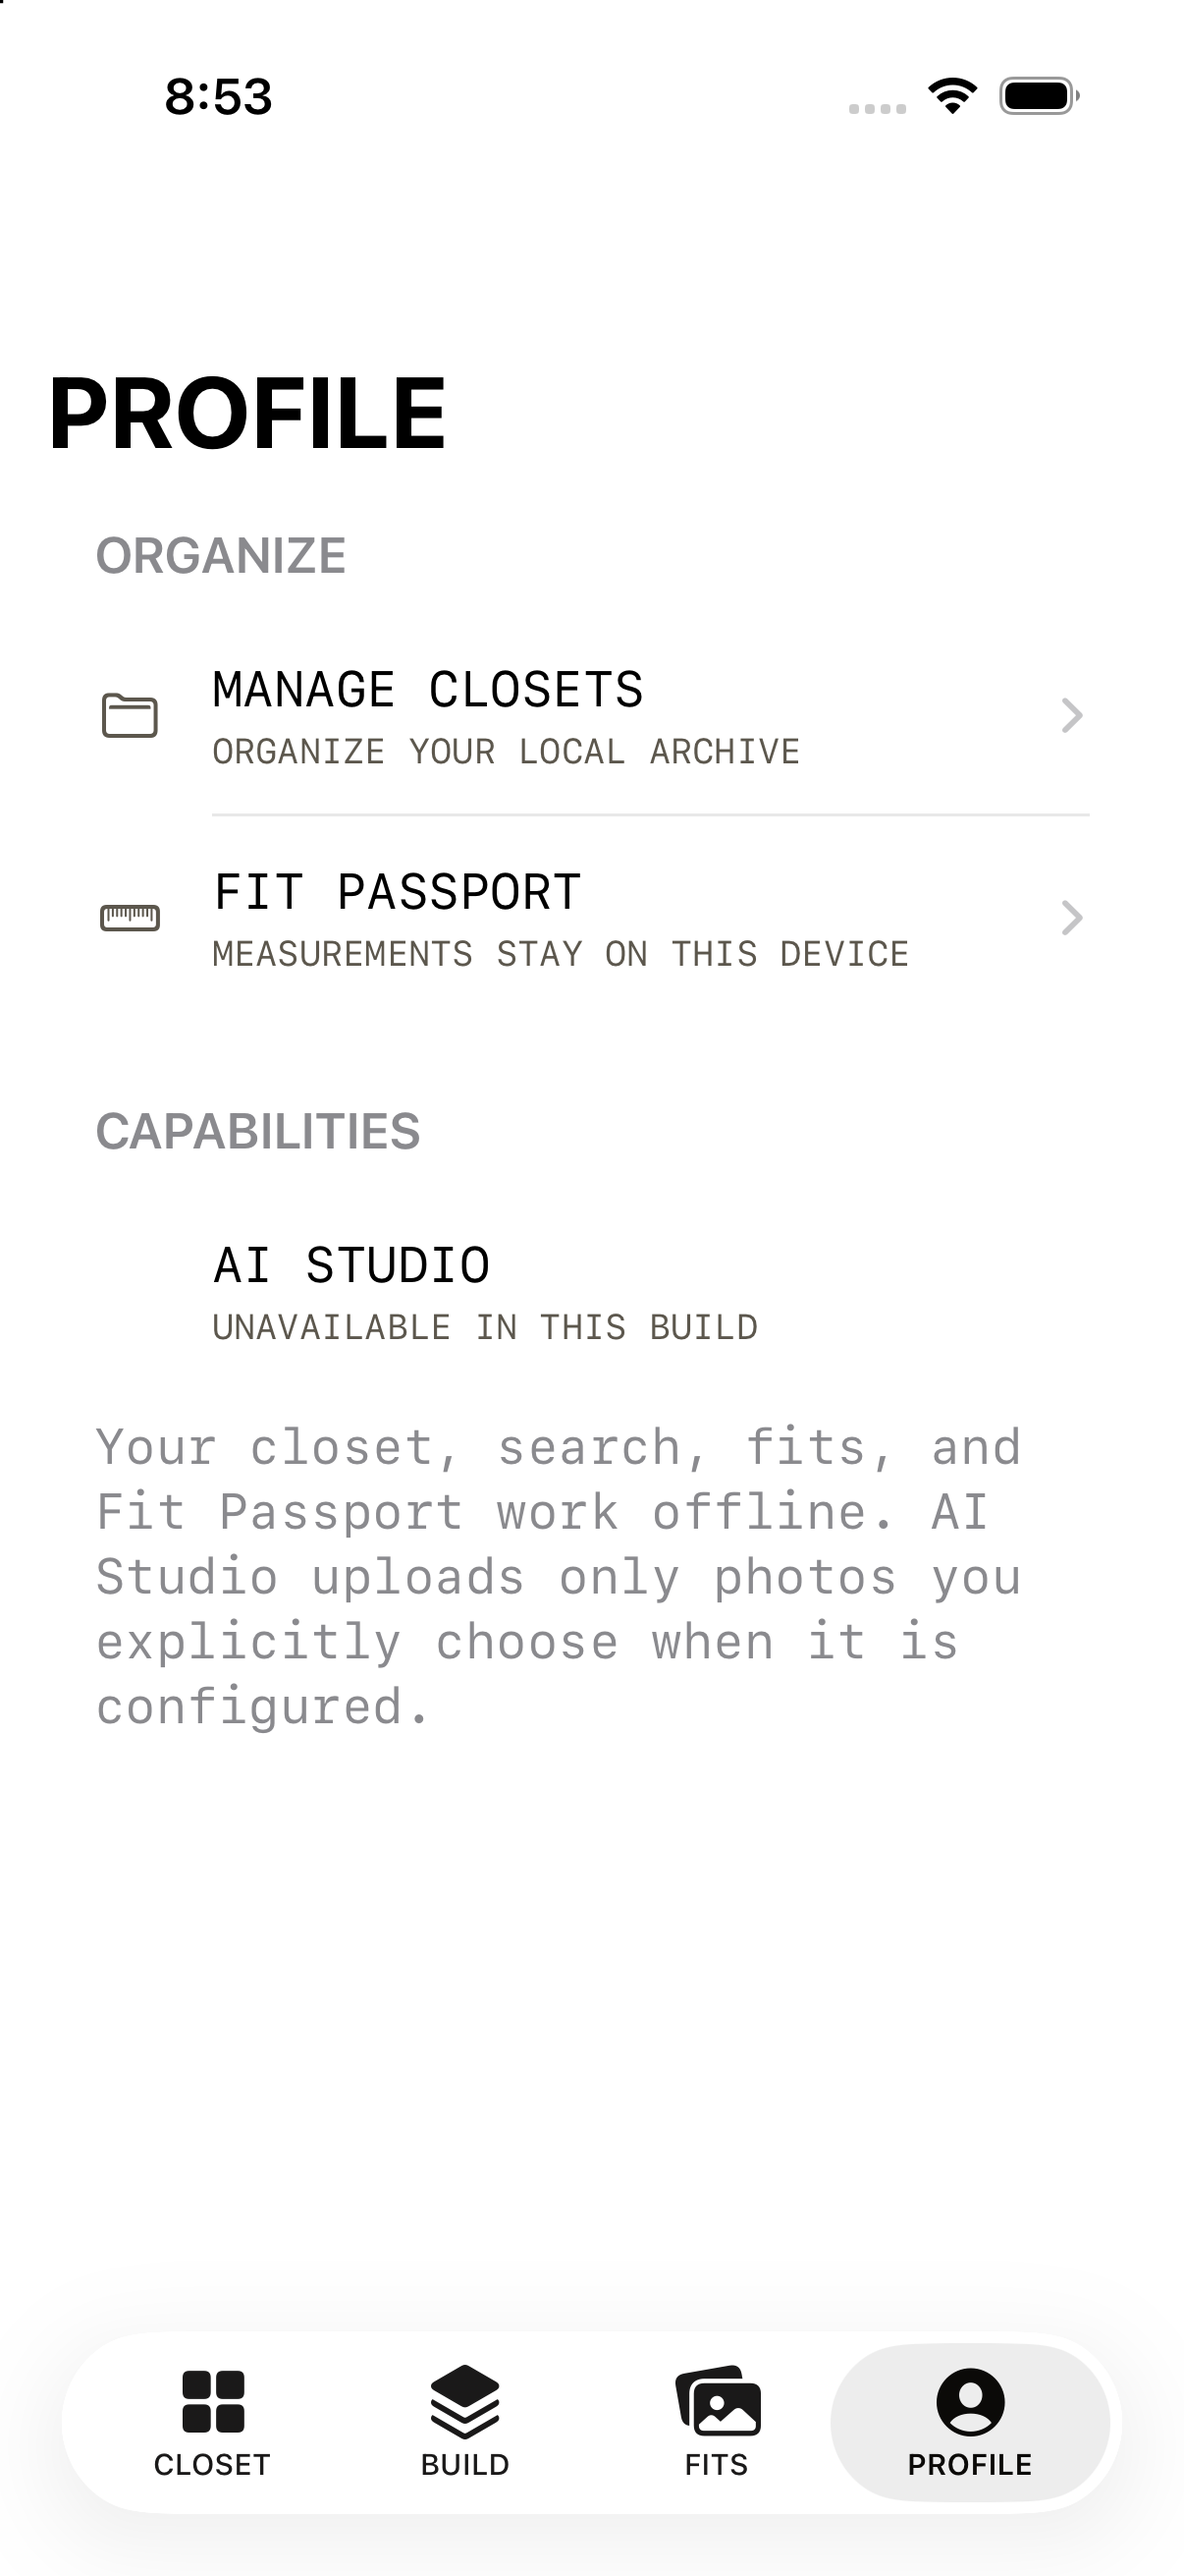
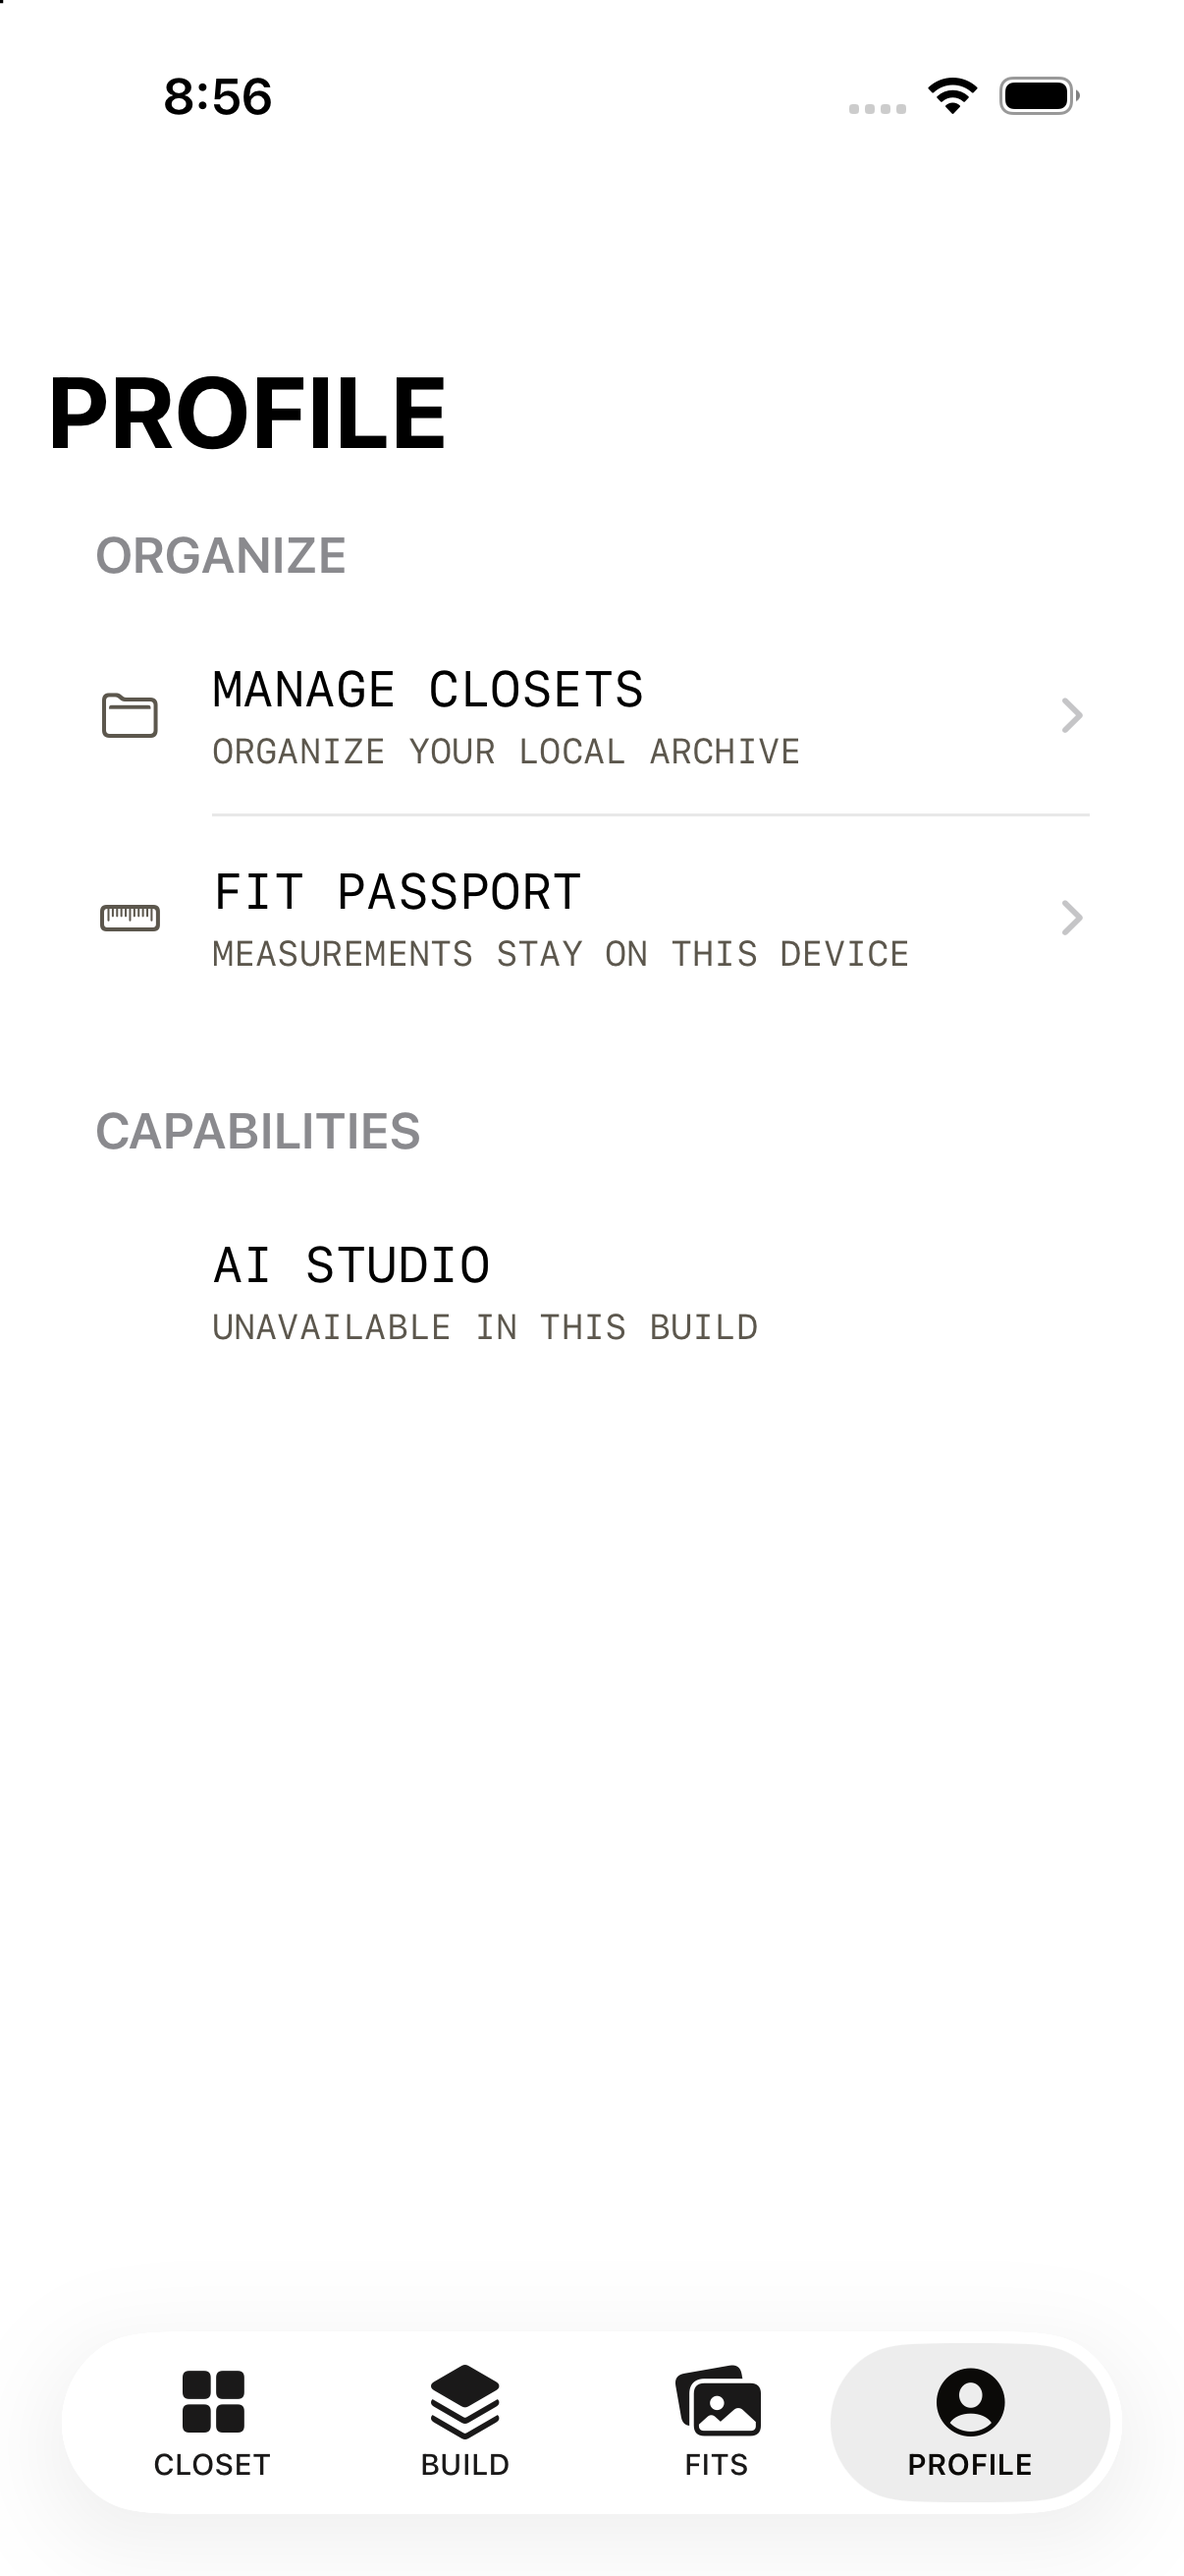
fix(profile): remove offline explanatory footer

diff --git a/src/views/Profile/ProfileView.swift b/src/views/Profile/ProfileView.swift
@@ -42,9 +42,6 @@ struct ProfileView: View {
                 .accessibilityElement(children: .combine)
             } header: {
                 Text("CAPABILITIES")
-            } footer: {
-                Text("Your closet, search, fits, and Fit Passport work offline. AI Studio uploads only photos you explicitly choose when it is configured.")
-                    .font(PyxisTypography.body)
             }
         }
         .scrollContentBackground(.hidden)

diff --git a/changes/2026-09-18-profile-privacy-section.md b/changes/2026-09-18-profile-privacy-section.md
@@ -2,16 +2,17 @@
 type: removed
 bump: patch
 area: profile
-summary: Remove the redundant Private by Default section from Profile.
+summary: Remove redundant privacy and offline explanatory copy from Profile.
 ---
 
 ## Details
 
 - Remove the About Pyxis heading and its Private by Default explanatory block from Profile.
+- Remove the offline and AI Studio explanatory paragraph beneath Capabilities.
 - Presentation-only change; local storage and photo-upload behavior are unchanged.
 
 ## Verification
 
 - Passed: `./scripts/build_and_run.sh --verify` on iPhone 17 Pro, iOS 26.5.
-- Passed: visual simulator check confirming Profile retains Organize and Capabilities and no longer shows About Pyxis or Private by Default.
+- Passed: visual simulator check confirming Profile retains Organize and Capabilities without the privacy block or offline/AI explanatory footer; screenshot refreshed.
 - Passed: privacy consistency, release-note validation, and `git diff --check`.
